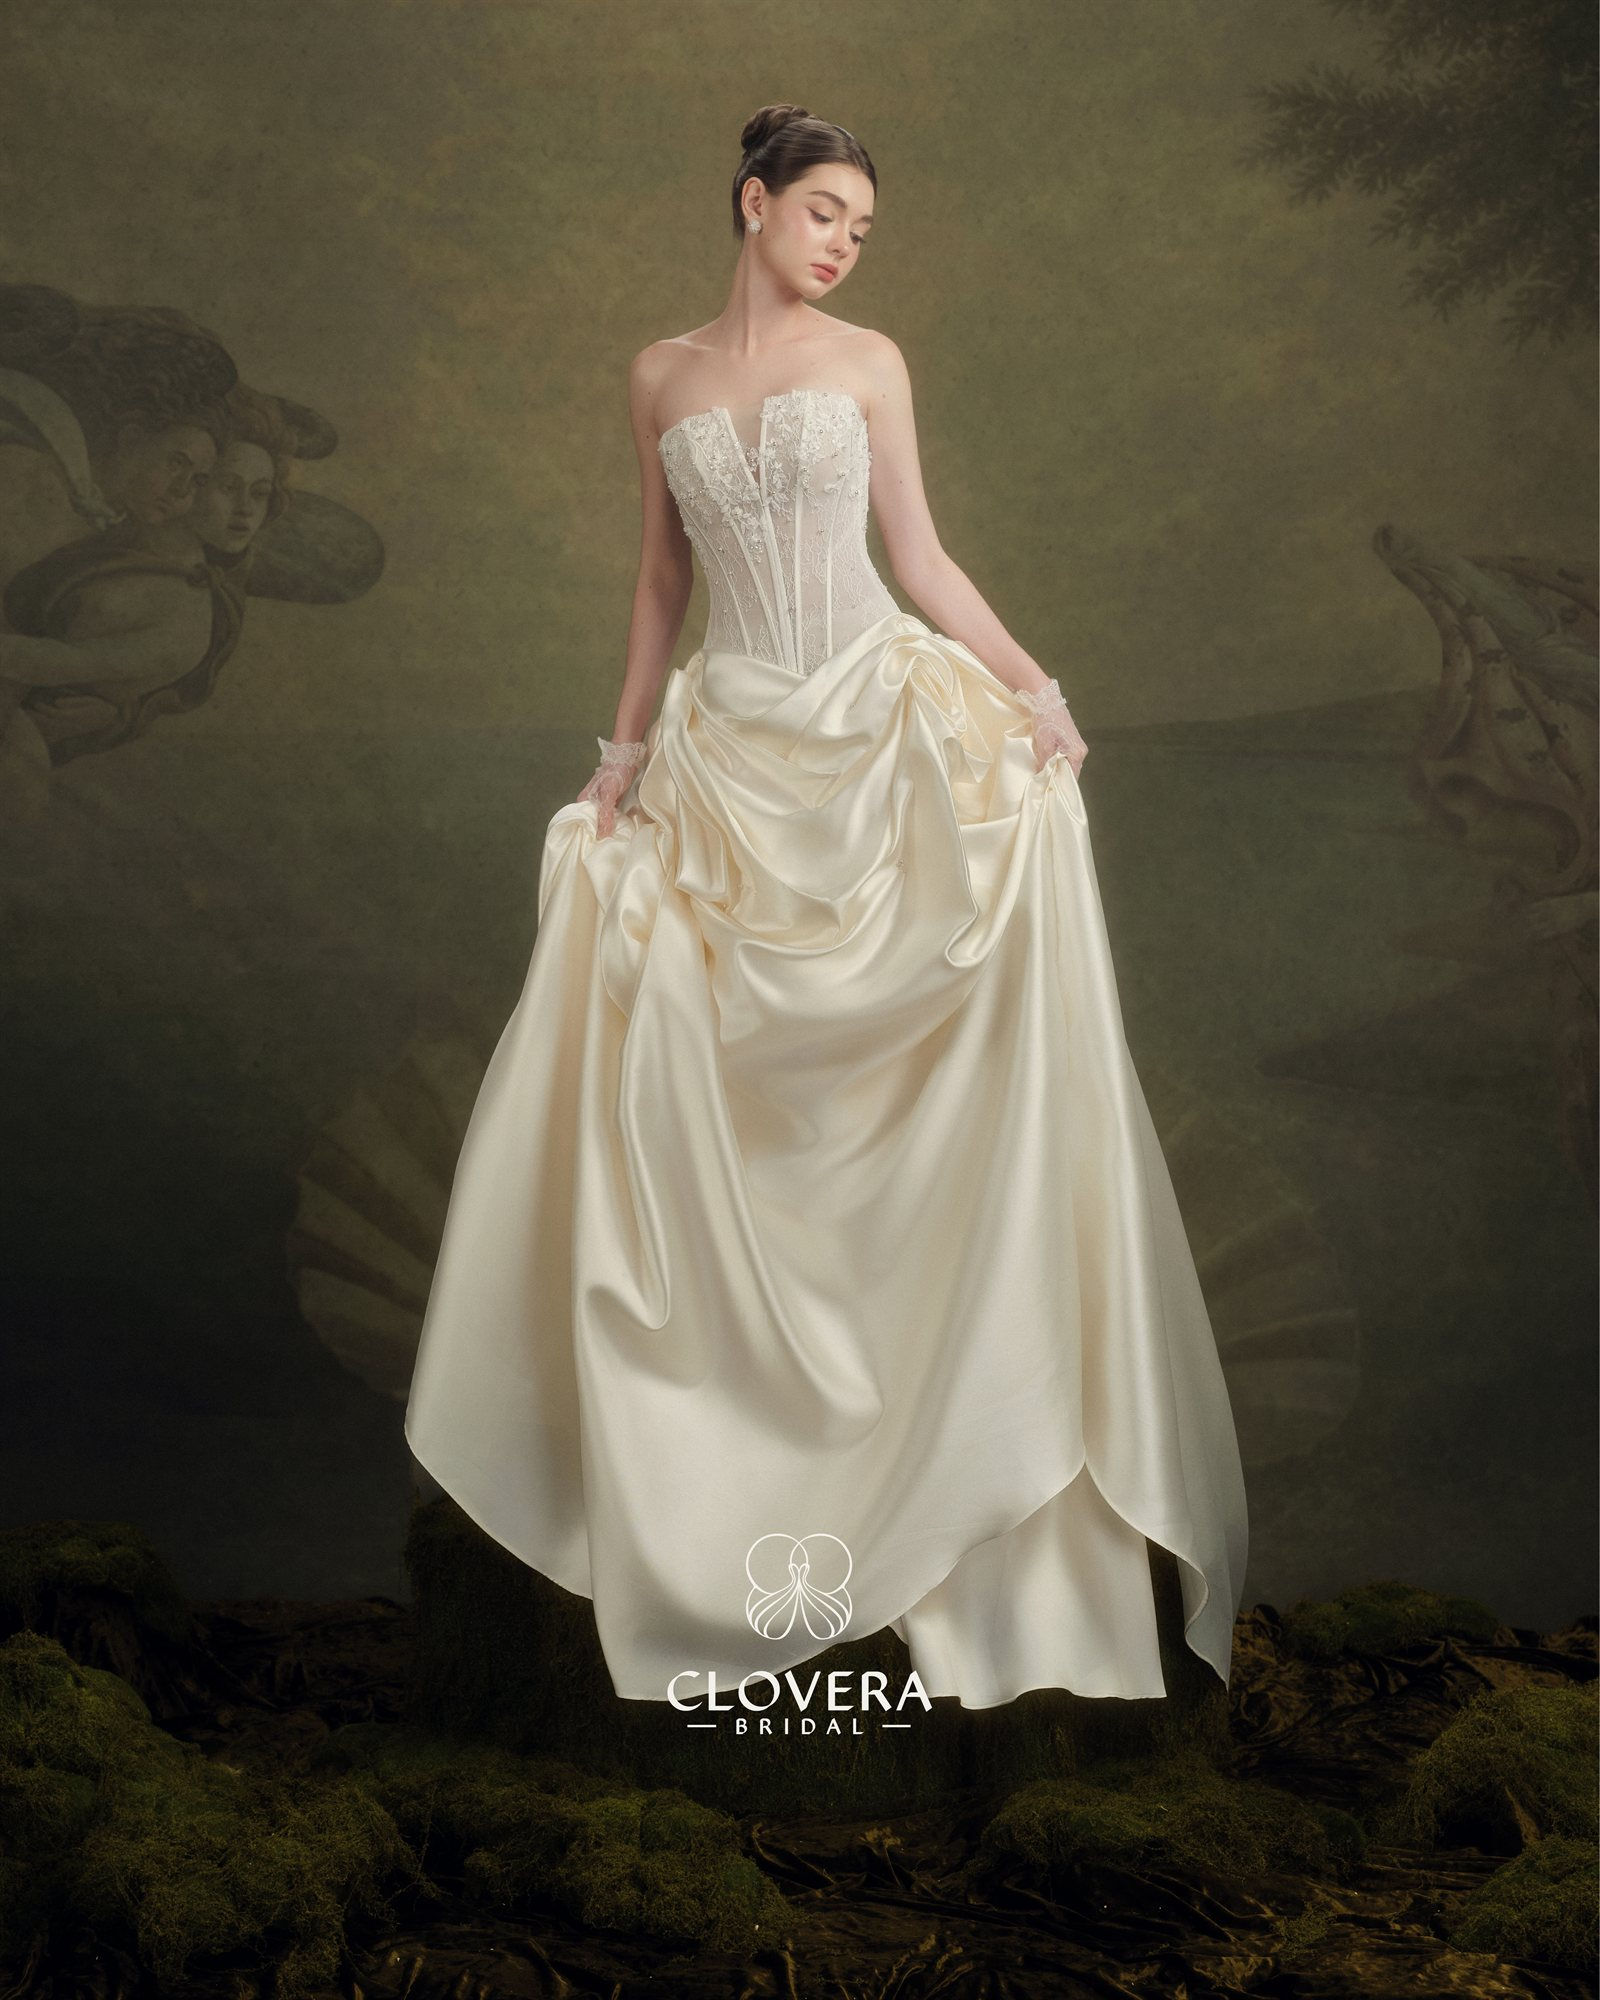
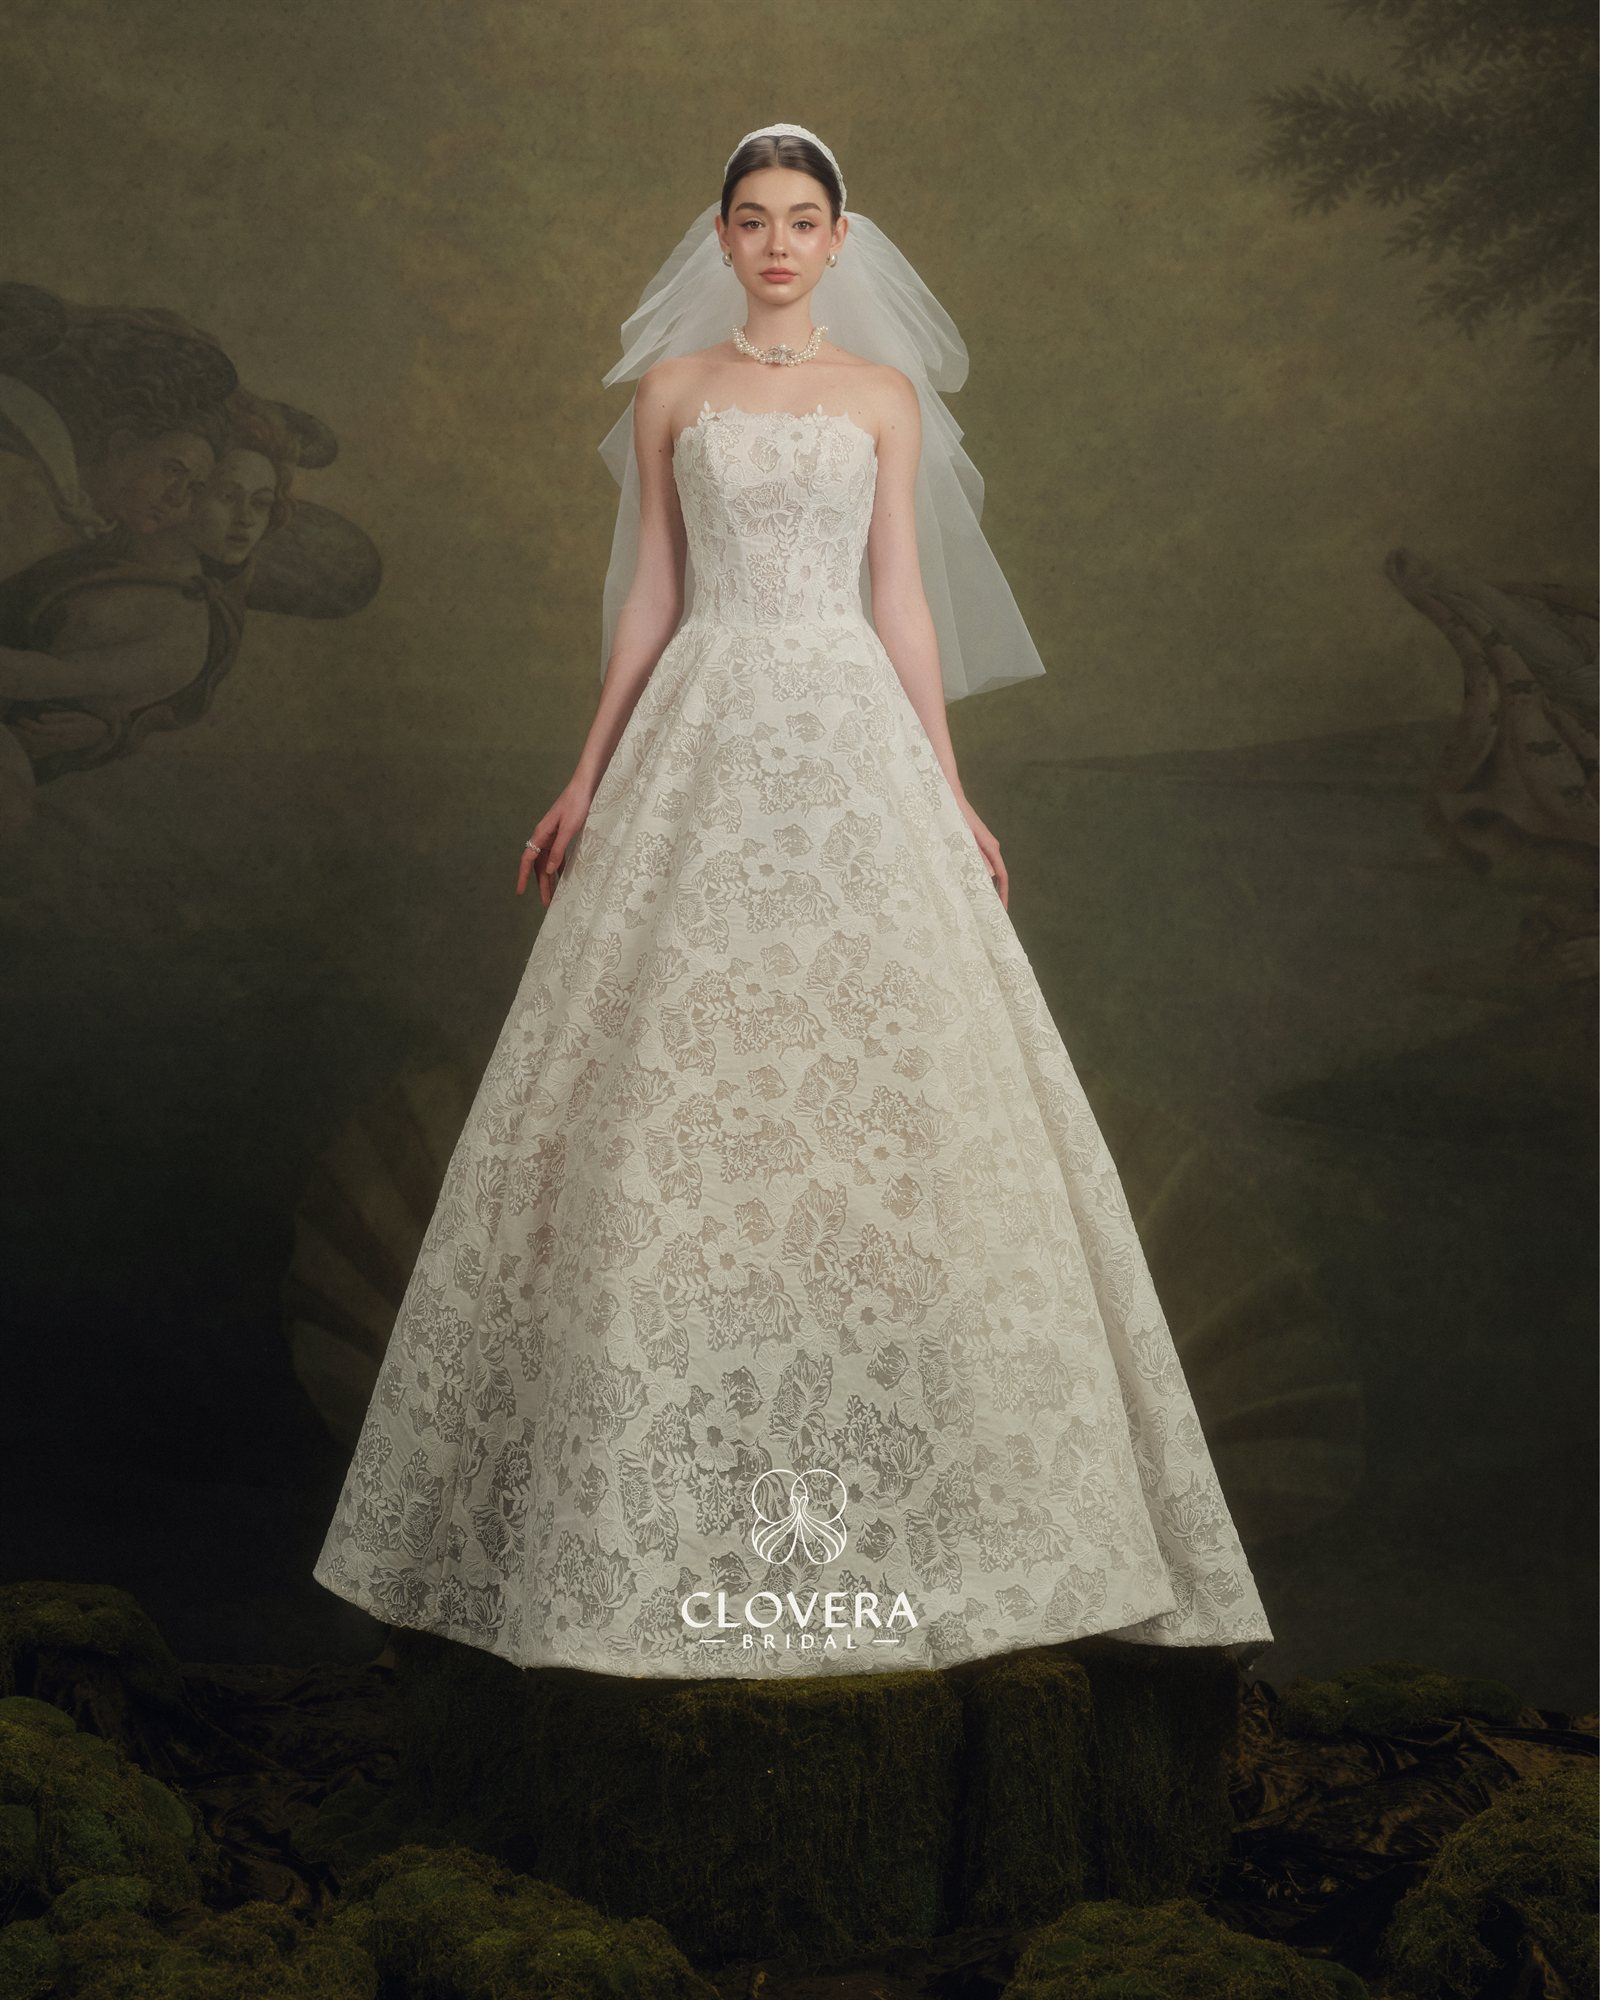
Refine brand voice, dark emerald theme, and service content
- Replace flat black dark sections with the logo's deep emerald tone
  (--color-surface-dark) across header, hero, and CTA band
- Swap Bloom's cover photo to match the client's reference shot
- Remove "Atelier" language sitewide; rewrite hero copy, about body,
  and meta description around the brand's actual rental / made-to-
  measure / custom-made positioning
- Rename services to Rental, Made-to-Measure, Custom Made, and
  Worldwide Shipping with rewritten copy and real photos per card
- Replace "Studio" with "CLOVERA Bridal" across footer/contact/book,
  and update the studio address
- Add a smaller SectionHeading size tier and tone down oversized
  headings on the hero, book, and contact pages; drop trailing periods
- Recolor the footer logo to ink-black to match surrounding text
- Remove the now-unused MediaFrame placeholder component

diff --git a/src/content/collections.ts b/src/content/collections.ts
@@ -31,7 +31,6 @@ export const collectionVideos: Record<
     { src: "/video/intro-2.mp4", poster: "/video/posters/intro-2.jpg" },
     { src: "/video/bloom-look-1.mp4", poster: "/video/posters/bloom-look-1.jpg" },
     { src: "/video/bloom-look-2.mp4", poster: "/video/posters/bloom-look-2.jpg" },
-    { src: "/video/bloom-look-21.mp4", poster: "/video/posters/bloom-look-21.jpg" },
   ],
   "venus-in-flight": [
     { src: "/video/flight-look-3.mp4", poster: "/video/posters/flight-look-3.jpg" },
@@ -40,22 +39,30 @@ export const collectionVideos: Record<
   ],
 };
 
-// Home hero slideshow: cycles through Bloom clips first, then Flight.
+// Home hero slideshow: leads with actual Venus in Bloom gown footage,
+// then transitions into Venus in Flight.
 export const heroClips: { src: string; poster: string }[] = [
-  { src: "/video/intro-1.mp4", poster: "/video/posters/intro-1.jpg" },
-  { src: "/video/intro-2.mp4", poster: "/video/posters/intro-2.jpg" },
   { src: "/video/bloom-look-1.mp4", poster: "/video/posters/bloom-look-1.jpg" },
   { src: "/video/bloom-look-2.mp4", poster: "/video/posters/bloom-look-2.jpg" },
+  { src: "/video/bloom-look-21.mp4", poster: "/video/posters/bloom-look-21.jpg" },
   { src: "/video/flight-look-3.mp4", poster: "/video/posters/flight-look-3.jpg" },
   { src: "/video/flight-look-5.mp4", poster: "/video/posters/flight-look-5.jpg" },
   { src: "/video/flight-look-7.mp4", poster: "/video/posters/flight-look-7.jpg" },
 ];
 
 export const serviceSlugs = [
+  "rental",
   "made-to-measure",
-  "ready-to-order",
-  "bespoke-design",
-  "bridal-accessories",
+  "custom-made",
+  "worldwide-shipping",
 ] as const;
 
 export type ServiceSlug = (typeof serviceSlugs)[number];
+
+// One representative photo per service, pulled from the two collections.
+export const serviceImages: Record<ServiceSlug, string> = {
+  rental: getLookImage("venus-in-bloom", 9),
+  "made-to-measure": getLookImage("venus-in-flight", 6),
+  "custom-made": getLookImage("venus-in-bloom", 15),
+  "worldwide-shipping": getLookImage("venus-in-flight", 18),
+};

diff --git a/src/app/[locale]/services/page.tsx b/src/app/[locale]/services/page.tsx
@@ -1,10 +1,11 @@
 import type { Metadata } from "next";
+import Image from "next/image";
 import { getTranslations, setRequestLocale } from "next-intl/server";
 import { SectionHeading } from "@/components/ui/SectionHeading";
 import { Reveal } from "@/components/ui/Reveal";
 import { Button } from "@/components/ui/Button";
-import { MediaFrame } from "@/components/ui/MediaFrame";
 import { CtaBand } from "@/components/layout/CtaBand";
+import { serviceImages, type ServiceSlug } from "@/content/collections";
 
 export async function generateMetadata({
   params,
@@ -57,10 +58,15 @@ export default async function ServicesPage({
           >
             <div className="mx-auto grid max-w-7xl items-center gap-10 px-6 sm:px-8 lg:grid-cols-2 lg:gap-16">
               <Reveal className={imageFirst ? "lg:order-2" : ""}>
-                <MediaFrame
-                  label={service.title}
-                  aspect="aspect-[4/5]"
-                />
+                <div className="relative aspect-[4/5] overflow-hidden bg-paper-raised">
+                  <Image
+                    src={serviceImages[service.slug as ServiceSlug]}
+                    alt={service.title}
+                    fill
+                    sizes="(min-width: 1024px) 50vw, 100vw"
+                    className="object-cover"
+                  />
+                </div>
               </Reveal>
 
               <Reveal

diff --git a/src/components/sections/Hero.tsx b/src/components/sections/Hero.tsx
@@ -8,21 +8,18 @@ export async function Hero() {
   const t = await getTranslations("home.hero");
 
   return (
-    <section className="relative flex h-[92vh] min-h-[640px] items-center justify-center overflow-hidden bg-ink">
+    <section className="relative flex h-[92vh] min-h-[640px] items-center justify-center overflow-hidden bg-surface-dark">
       <HeroSlideshow clips={heroClips} />
       <div
         aria-hidden="true"
-        className="absolute inset-0 bg-gradient-to-t from-ink/80 via-ink/25 to-ink/50"
+        className="absolute inset-0 bg-gradient-to-t from-surface-dark/85 via-surface-dark/25 to-surface-dark/55"
       />
 
       <Reveal className="relative z-10 mx-auto max-w-2xl px-6 text-center sm:px-8">
-        <p className="mb-5 text-xs uppercase tracking-[0.3em] text-gold-soft">
-          {t("eyebrow")}
-        </p>
-        <h1 className="font-serif text-4xl leading-[1.1] text-paper sm:text-5xl lg:text-6xl">
+        <h1 className="font-serif text-3xl leading-[1.15] text-paper sm:text-4xl lg:text-5xl">
           {t("heading")}
         </h1>
-        <p className="mx-auto mt-6 max-w-md text-base leading-relaxed text-paper/80">
+        <p className="mx-auto mt-6 max-w-lg text-base leading-relaxed text-paper/80">
           {t("sub")}
         </p>
         <div className="mt-10 flex flex-wrap items-center justify-center gap-4">

diff --git a/src/app/globals.css b/src/app/globals.css
@@ -11,6 +11,10 @@
   --color-gold-soft: #f3db9f;
   --color-line: #e6e1d7;
   --color-line-strong: #d7cfbf;
+  /* Deep emerald marble tone from the logo's background — used for dark
+     sections (header, hero overlay, CTA band) instead of flat black. */
+  --color-surface-dark: #0e2a20;
+  --color-surface-dark-soft: #163a2c;
 
   /* Displace (the brand display face) has no Vietnamese diacritics, so the
      Vietnamese locale swaps the heading face to Playfair Display instead. */
@@ -30,6 +34,8 @@ html[lang="vi"] {
   --color-gold-soft: var(--color-gold-soft);
   --color-line: var(--color-line);
   --color-line-strong: var(--color-line-strong);
+  --color-surface-dark: var(--color-surface-dark);
+  --color-surface-dark-soft: var(--color-surface-dark-soft);
 
   --font-serif: var(--font-heading), Georgia, serif;
   --font-sans: var(--font-inter), ui-sans-serif, system-ui, sans-serif;

diff --git a/src/components/ui/SectionHeading.tsx b/src/components/ui/SectionHeading.tsx
@@ -8,6 +8,13 @@ type SectionHeadingProps = {
   align?: "left" | "center";
   className?: string;
   as?: "h1" | "h2" | "h3";
+  size?: "sm" | "md" | "lg";
+};
+
+const headingSizes = {
+  lg: "text-4xl sm:text-5xl",
+  md: "text-3xl sm:text-4xl",
+  sm: "text-2xl sm:text-3xl",
 };
 
 export function SectionHeading({
@@ -17,6 +24,7 @@ export function SectionHeading({
   align = "left",
   className,
   as: Heading = "h2",
+  size = "lg",
 }: SectionHeadingProps) {
   return (
     <div
@@ -31,7 +39,12 @@ export function SectionHeading({
           {eyebrow}
         </p>
       )}
-      <Heading className="font-serif text-4xl leading-[1.1] text-ink sm:text-5xl">
+      <Heading
+        className={cn(
+          "font-serif leading-[1.1] text-ink",
+          headingSizes[size],
+        )}
+      >
         {heading}
       </Heading>
       {body && (

diff --git a/src/components/layout/Header.tsx b/src/components/layout/Header.tsx
@@ -33,7 +33,7 @@ export function Header() {
   const [open, setOpen] = useState(false);
 
   return (
-    <header className="sticky top-0 z-50 bg-ink text-paper">
+    <header className="sticky top-0 z-50 bg-surface-dark text-paper">
       {/* Utility bar */}
       <div className="hidden border-b border-paper/10 lg:block">
         <div className="mx-auto flex h-10 max-w-7xl items-center justify-between px-6 sm:px-8">
@@ -145,7 +145,7 @@ export function Header() {
       {open && (
         <nav
           id="mobile-nav"
-          className="border-t border-paper/10 bg-ink px-6 pb-8 pt-2 lg:hidden"
+          className="border-t border-paper/10 bg-surface-dark px-6 pb-8 pt-2 lg:hidden"
         >
           <ul className="flex flex-col divide-y divide-paper/10">
             {navLinks.map((link) => (

diff --git a/src/components/layout/CtaBand.tsx b/src/components/layout/CtaBand.tsx
@@ -19,7 +19,7 @@ export function CtaBand({
   className,
 }: CtaBandProps) {
   return (
-    <section className={cn("bg-ink py-24 text-paper sm:py-28", className)}>
+    <section className={cn("bg-surface-dark py-24 text-paper sm:py-28", className)}>
       <Reveal className="mx-auto max-w-2xl px-6 text-center sm:px-8">
         <h2 className="font-serif text-3xl leading-tight sm:text-4xl">
           {heading}

diff --git a/src/app/[locale]/book/page.tsx b/src/app/[locale]/book/page.tsx
@@ -30,6 +30,7 @@ export default async function BookPage({
             eyebrow={t("eyebrow")}
             heading={t("heading")}
             body={t("intro")}
+            size="sm"
           />
           <div className="mt-10 space-y-1 text-sm text-ink-soft">
             <p className="text-xs uppercase tracking-[0.2em] text-gold">

diff --git a/src/components/layout/Footer.tsx b/src/components/layout/Footer.tsx
@@ -16,7 +16,7 @@ export function Footer() {
         <div className="grid gap-12 sm:grid-cols-2 lg:grid-cols-4">
           <div className="lg:col-span-1">
             <Image
-              src="/logo.png"
+              src="/logo-black.png"
               alt="Clovera Bridal"
               width={220}
               height={168}

diff --git a/src/app/[locale]/about/page.tsx b/src/app/[locale]/about/page.tsx
@@ -40,7 +40,7 @@ export default async function AboutPage({
             <VideoClip
               src="/video/bts-look-1.mp4"
               poster="/video/posters/bts-look-1.jpg"
-              alt="Inside the Clovera Bridal atelier"
+              alt="Inside CLOVERA Bridal"
             />
           </Reveal>
         </div>

diff --git a/src/app/[locale]/contact/page.tsx b/src/app/[locale]/contact/page.tsx
@@ -46,6 +46,7 @@ export default async function ContactPage({
             eyebrow={t("eyebrow")}
             heading={t("heading")}
             body={t("intro")}
+            size="sm"
           />
         </Reveal>
 
